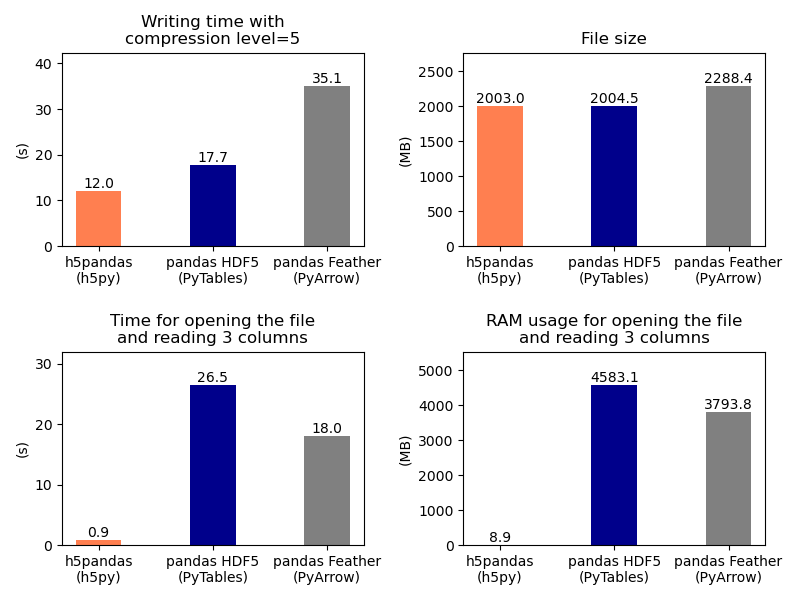
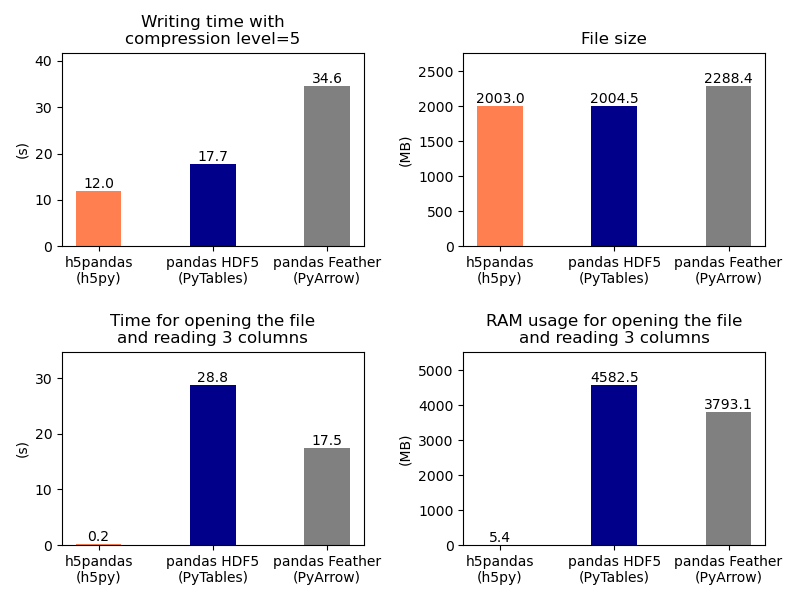
update dataframe creation method and benchmark

diff --git a/h5pandas/dataframe.py b/h5pandas/dataframe.py
@@ -219,14 +219,20 @@ def dataset_to_dataframe(dataset: h5py.Dataset, columns=None, index=None, copy=F
             except TypeError:
                 index = dataset.attrs["index"]
 
-    # we create a Series for each column
-    series = (
-        pandas.Series(HDF5ExtensionArray(dataset, i), index=index, name=col, copy=False)
-        for i, col in enumerate(columns_decoded)
-    )
+    # We use a manager to speed up the dataFrame creation 0.8s -> 0.2s
+    arrays = [HDF5ExtensionArray(dataset, i) for i, col in enumerate(columns_decoded)]
+    from pandas.core.internals.construction import arrays_to_mgr
 
-    # concatenate the series into a DataFrame
-    dataframe = pandas.concat(series, copy=copy, axis=1)
+    mgr = arrays_to_mgr(arrays, columns_decoded, index, dtype=None, typ="block", consolidate=copy)
+    dataframe = pandas.DataFrame._from_mgr(mgr, axes=[columns_decoded, index])
+
+    # Old method : maybe safer ? but much slower
+    # series = [
+    #     pandas.Series(HDF5ExtensionArray(dataset, i), index=index, name=col, copy=False)
+    #     for i, col in enumerate(columns_decoded)
+    # ]
+    # dataframe = pandas.concat(series, copy=copy, axis=1)
+
     # copy the dataset attrs into the dataframe attrs
     for key, value in dataset.attrs.items():
         if key in ("columns", "index"):
